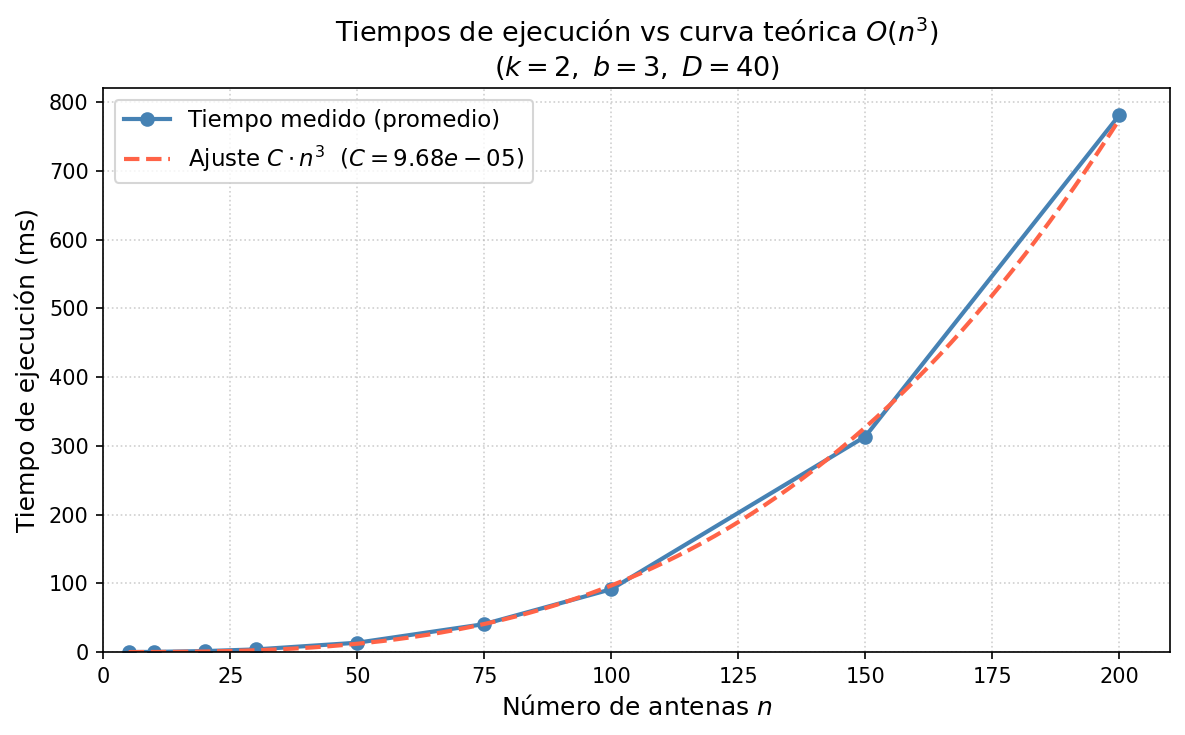
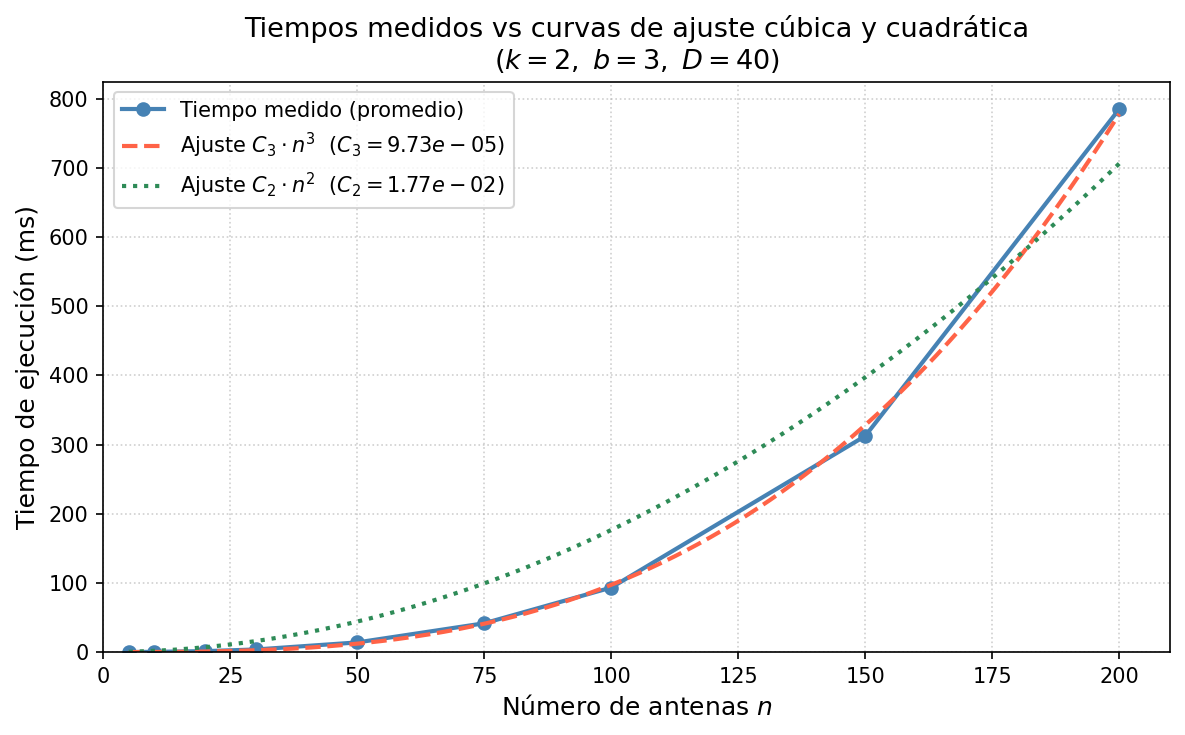
grafico de impacto de variables

diff --git a/informe/tex/flujo/solucion.tex b/informe/tex/flujo/solucion.tex
@@ -237,17 +237,33 @@ Se ejecutaron 10 casos de prueba sobre el algoritmo implementado. Los casos fuer
 
 \subsection{Tiempos de ejecución}
 
-Para evaluar si los tiempos de ejecución se corresponden con la complejidad teórica $O(k \cdot n^3)$, se diseñó un experimento con parámetros fijos $k=2$, $b=3$, $D=40$ y tamaños de entrada crecientes $n \in \{5, 10, 20, 30, 50, 75, 100, 150, 200\}$. Para cada valor de $n$ se generaron 7 instancias aleatorias con semillas distintas, se descartaron el mínimo y el máximo, y se promedió el tiempo de las 5 mediciones restantes. Con $k$ fijo, la complejidad predicha es $O(n^3)$, lo que permite ajustar una curva $f(n) = C \cdot n^3$ por mínimos cuadrados sobre los tiempos medidos.
+Para evaluar si los tiempos de ejecución se corresponden con la complejidad teórica $O(k \cdot n^3)$, se diseñó un experimento con parámetros fijos $k=2$, $b=3$, $D=40$ y tamaños de entrada crecientes $n \in \{5, 10, 20, 30, 50, 75, 100, 150, 200\}$. Para cada valor de $n$ se generaron 7 instancias aleatorias con semillas distintas, se descartaron el mínimo y el máximo, y se promedió el tiempo de las 5 mediciones restantes. Con $k$ fijo, la complejidad predicha es $O(n^3)$; para contrastar, se ajustan simultáneamente una curva cúbica $f(n) = C_3 \cdot n^3$ y una cuadrática $f(n) = C_2 \cdot n^2$, ambas por mínimos cuadrados.
 
 \begin{figure}[H]
 \centering
 \includegraphics[width=0.9\textwidth]{img/grafico_tiempos.png}
-\caption{Tiempos de ejecución medidos (azul) frente a la curva teórica de ajuste $C \cdot n^3$ (rojo discontinuo), para $k=2$, $b=3$, $D=40$. Generado con \texttt{analisis/tiempos.ipynb}.}
+\caption{Tiempos de ejecución medidos (azul) frente al ajuste cúbico $C_3 \cdot n^3$ (rojo discontinuo) y el ajuste cuadrático $C_2 \cdot n^2$ (verde punteado), para $k=2$, $b=3$, $D=40$. Generado con \texttt{analisis/tiempos.ipynb}.}
 \label{fig:tiempos}
 \end{figure}
 
-\paragraph{Análisis.}
-La curva medida se ajusta con buena precisión a $C \cdot n^3$, lo que confirma la complejidad $O(k \cdot n^3)$ determinada teóricamente. Para $n=200$ el tiempo promedio se mantiene en el orden de cientos de milisegundos, coherente con la predicción cúbica. La pequeña desviación visible en valores bajos de $n$ se debe a que para instancias pequeñas el costo constante de inicialización de la red domina sobre el término cúbico. En instancias donde no existe solución, Edmonds-Karp recorre igualmente toda la red residual antes de concluir, por lo que el comportamiento asintótico es el mismo independientemente del resultado.
+\paragraph{Análisis del ajuste.}
+La curva medida se ajusta con mayor precisión a $C_3 \cdot n^3$ que a $C_2 \cdot n^2$: para valores grandes de $n$ la curva cuadrática subestima sistemáticamente los tiempos, mientras que la cúbica los sigue de cerca. Esto confirma la complejidad $O(k \cdot n^3)$ determinada teóricamente. La leve desviación para $n$ pequeños se debe a que el costo constante de inicialización de la red domina sobre el término cúbico. En instancias sin solución, Edmonds-Karp recorre igualmente toda la red residual antes de concluir, por lo que el comportamiento asintótico es el mismo.
+
+\paragraph{Efecto de los parámetros $k$, $b$ y $D$.}
+La Figura~\ref{fig:tiempos_variables} muestra el tiempo en función de $n$ al variar cada uno de los tres parámetros por separado.
+
+\begin{figure}[H]
+\centering
+\includegraphics[width=\textwidth]{img/grafico_tiempos_variables.png}
+\caption{Efecto de $k$, $b$ y $D$ sobre los tiempos de ejecución. Cada panel varía un parámetro manteniendo los demás fijos. Generado con \texttt{analisis/tiempos.ipynb}.}
+\label{fig:tiempos_variables}
+\end{figure}
+
+\begin{itemize}
+    \item \textbf{Efecto de $k$}: al aumentar $k$, las curvas se desplazan hacia arriba de forma aproximadamente proporcional, consistente con la dependencia lineal $O(k \cdot n^3)$. Un mayor $k$ implica más caminos aumentantes necesarios (el flujo objetivo es $n \cdot k$), por lo que Edmonds-Karp ejecuta más iteraciones.
+    \item \textbf{Efecto de $b$}: valores mayores de $b$ reducen el tiempo, ya que al relajar la restricción de capacidad en los nodos $B_j \to T$ el algoritmo encuentra caminos aumentantes con menos rerouting. Para $b$ muy grande, la restricción efectiva pasa a ser $k$ (cada $A_i$ solo puede enviar $k$ unidades), y el tiempo converge.
+    \item \textbf{Efecto de $D$}: un umbral de distancia mayor aumenta la densidad de aristas intermedias $A_i \to B_j$, lo que incrementa el tamaño de la red y el costo de cada BFS. Esto se refleja en tiempos ligeramente mayores a medida que $D$ crece, especialmente para $n$ grande.
+\end{itemize}
 
 \subsection{Seguimiento}
 